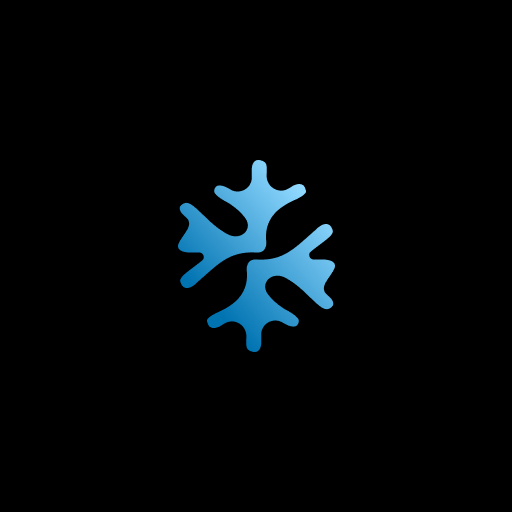
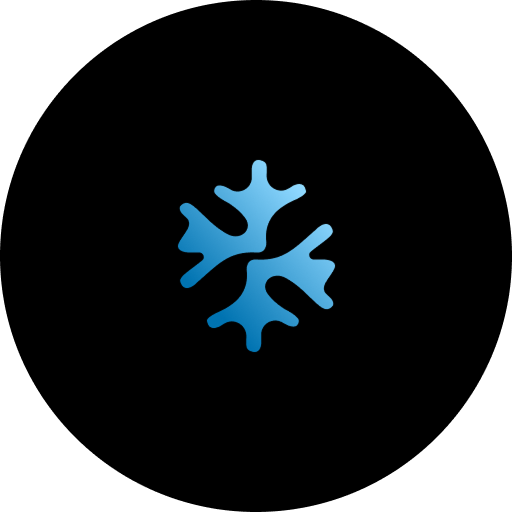
update

diff --git a/README.md b/README.md
@@ -1,6 +1,6 @@
 <div align="center">
 
-<img src="https://images.weserv.nl/?url=raw.githubusercontent.com/luqelha/luqelha/main/images/luqelha.png&w=150&h=150&fit=cover&mask=circle&mtrim" alt="Muhammad Luqmanul Hakim" width="150" height="150" />
+<img src="images/luqelha.png" alt="Muhammad Luqmanul Hakim" width="150" height="150" />
 
 <br/>
 
@@ -16,21 +16,15 @@
 Building end-to-end solutions across web, and backend systems.
 <br/>Focused on clean architecture, modern frameworks, and scalable infrastructure.
 
-<br/>
-
 </div>
 
 <div align="center">
-
-## GitHub Analytics
 
 <img src="https://github-readme-streak-stats.herokuapp.com/?user=luqelha&theme=github-dark-blue&hide_border=true&background=0d1117&ring=58a6ff&fire=58a6ff&currStreakLabel=58a6ff" alt="GitHub Streak" height="170" />
 
 </div>
 
 <div align="center">
-
-## Connect
 
 <br/>
 
